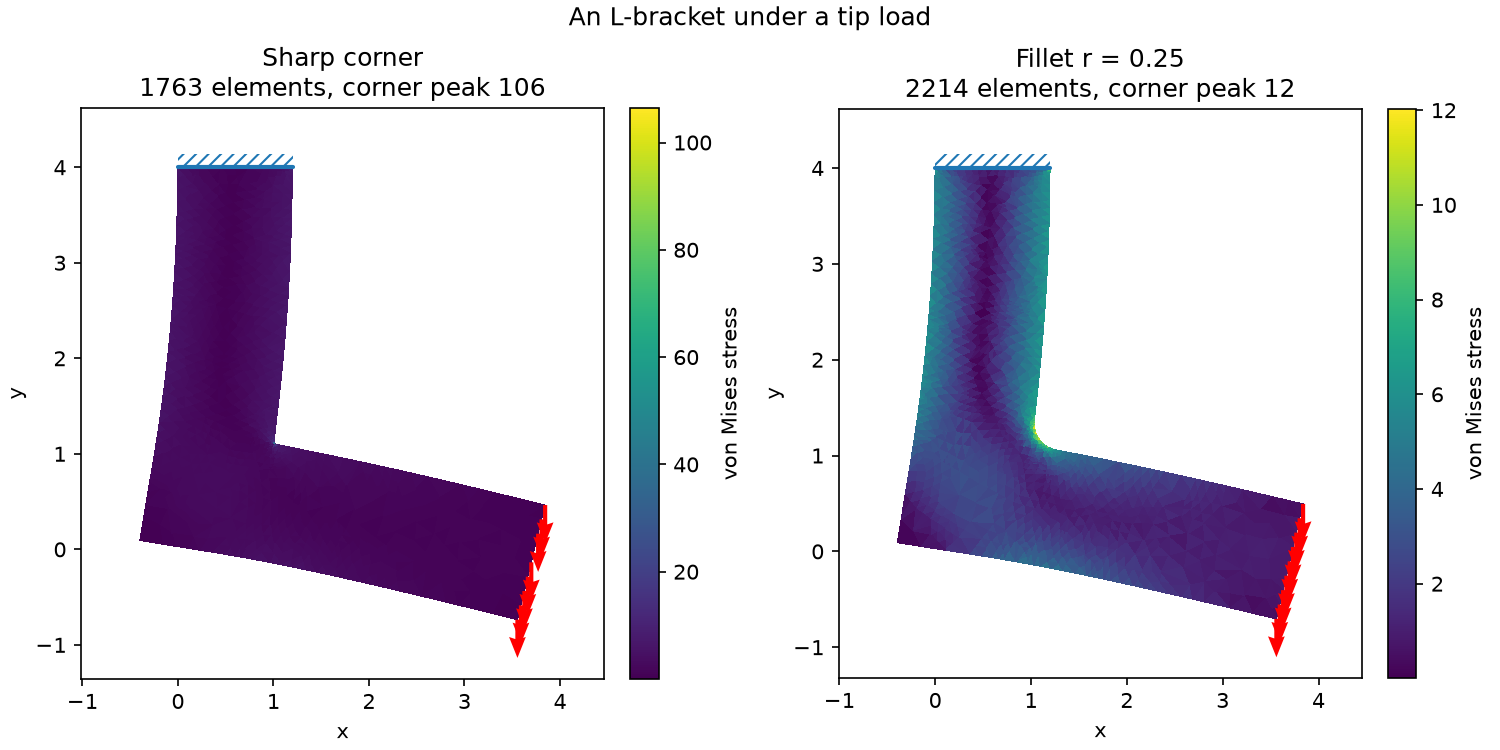
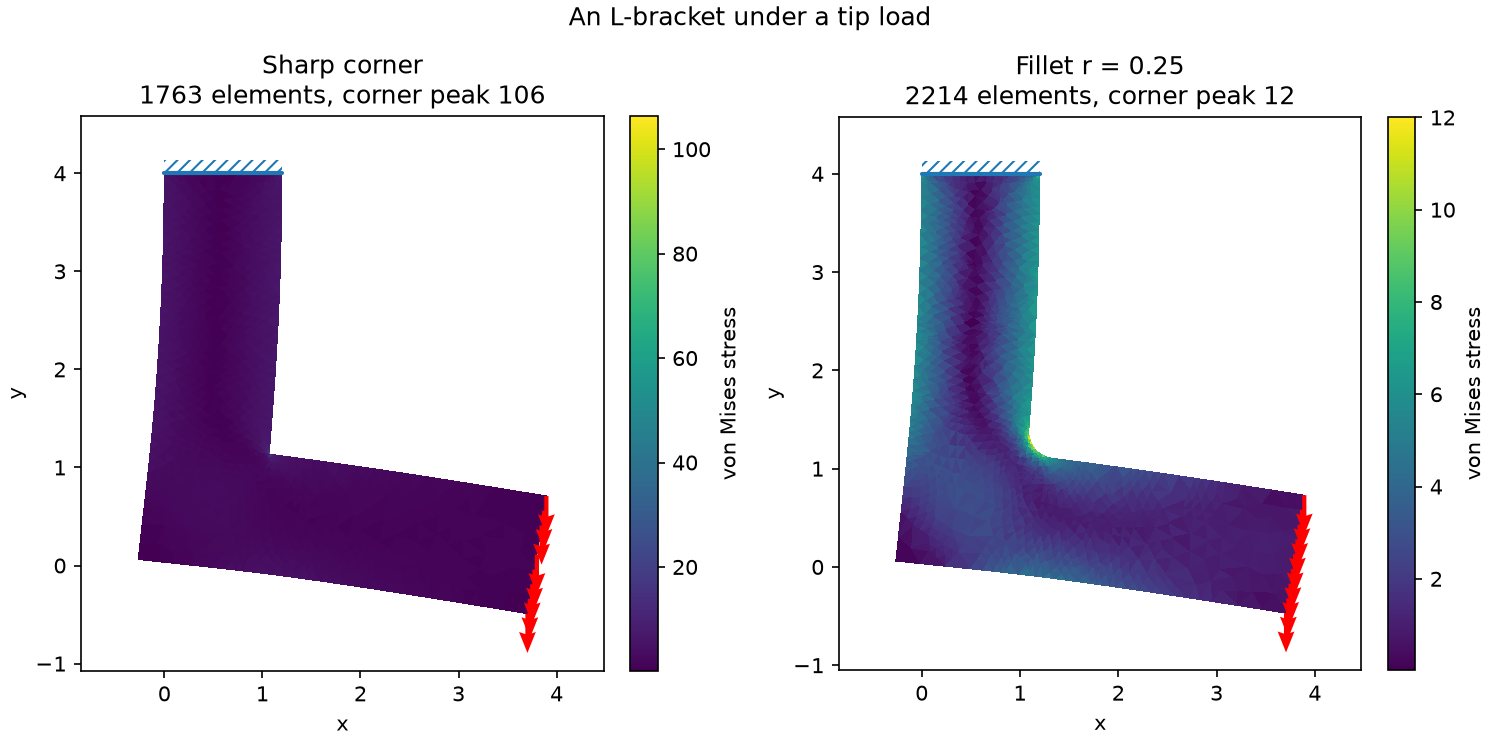
Stiffen the L-bracket and tidy the buckling modes plot
- L-bracket: raise E from 200 to 300 so the bracket droops less. Von Mises
  stress is independent of E in linear elasticity, so the reported corner-peak
  numbers are unchanged; only the visible deflection shrinks. Re-rendered
  bracket.png.
- Buckling: hide the x-axis ticks on the mode-shape panels, matching the modal
  modes plot, since the labels only collide on the tall thin columns.
  Re-rendered buckling.png.

diff --git a/examples/solver_demos.py b/examples/solver_demos.py
@@ -649,7 +649,7 @@ def demo_stress_concentration(traction=1.0, length=6.0, height=3.0, radius=0.3,
               f'peak sigma_xx / applied  {peak:.2f}   (Kirsch, infinite plate: 3)'),
     )
 
-def demo_bracket(arm=4.0, width=1.2, fillet_radius=0.25, traction=0.4, E=200.0, nu=0.3,
+def demo_bracket(arm=4.0, width=1.2, fillet_radius=0.25, traction=0.4, E=300.0, nu=0.3,
                  min_angle=28, max_area_fraction=0.003, n_rounds=18, refine_fraction=0.9):
     """Load an L-bracket and read the stress at its inner corner: a sharp re-entrant
     corner is a stress singularity whose peak climbs without bound as the mesh refines,
@@ -1404,6 +1404,9 @@ def demo_buckling(length=24.0, height=1.0, n_length=48, n_across=6, n_modes=3,
                          f'({i+1} half-wave{"s" if i else ""})')
         # The pin/load glyphs, on the deformed shape so the load rides the moving end.
         modes.overlay_supports(mesh, pinned_bc, idx=(0, i), coords=shape.vertices)
+        # Drop the x ticks: on these tall, thin columns the labels only collide, and the
+        # y axis already carries the scale (as on the modal modes plot).
+        modes.get_ax((0, i)).tick_params(axis='x', labelbottom=False, bottom=False)
     _share_panel_limits(modes, n_modes)
     modes.fig.supxlabel(
         'Blue triangles: the pinned ends, held sideways but free to rotate.\n'
